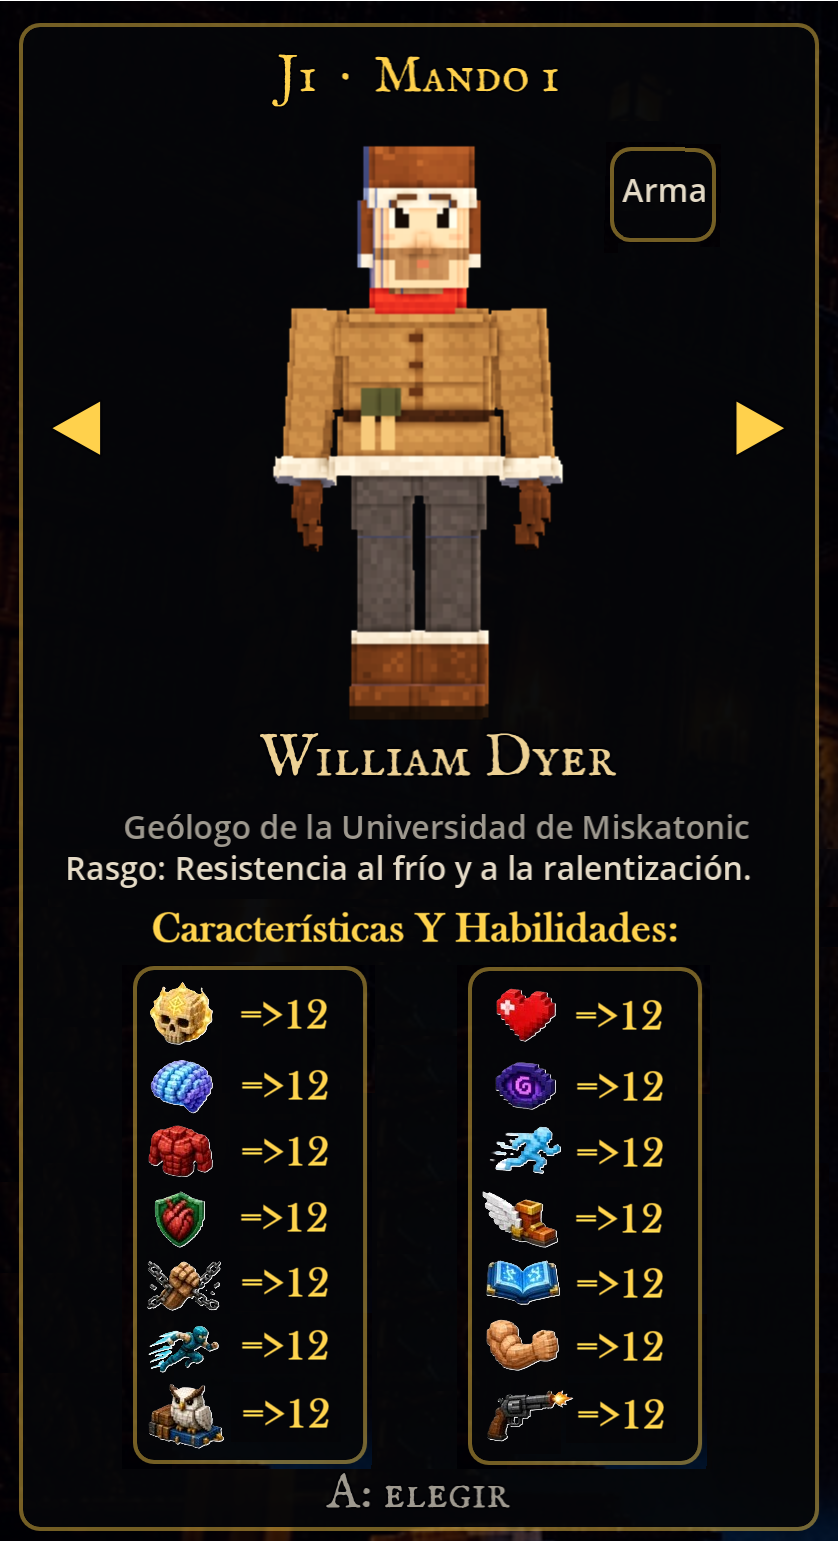
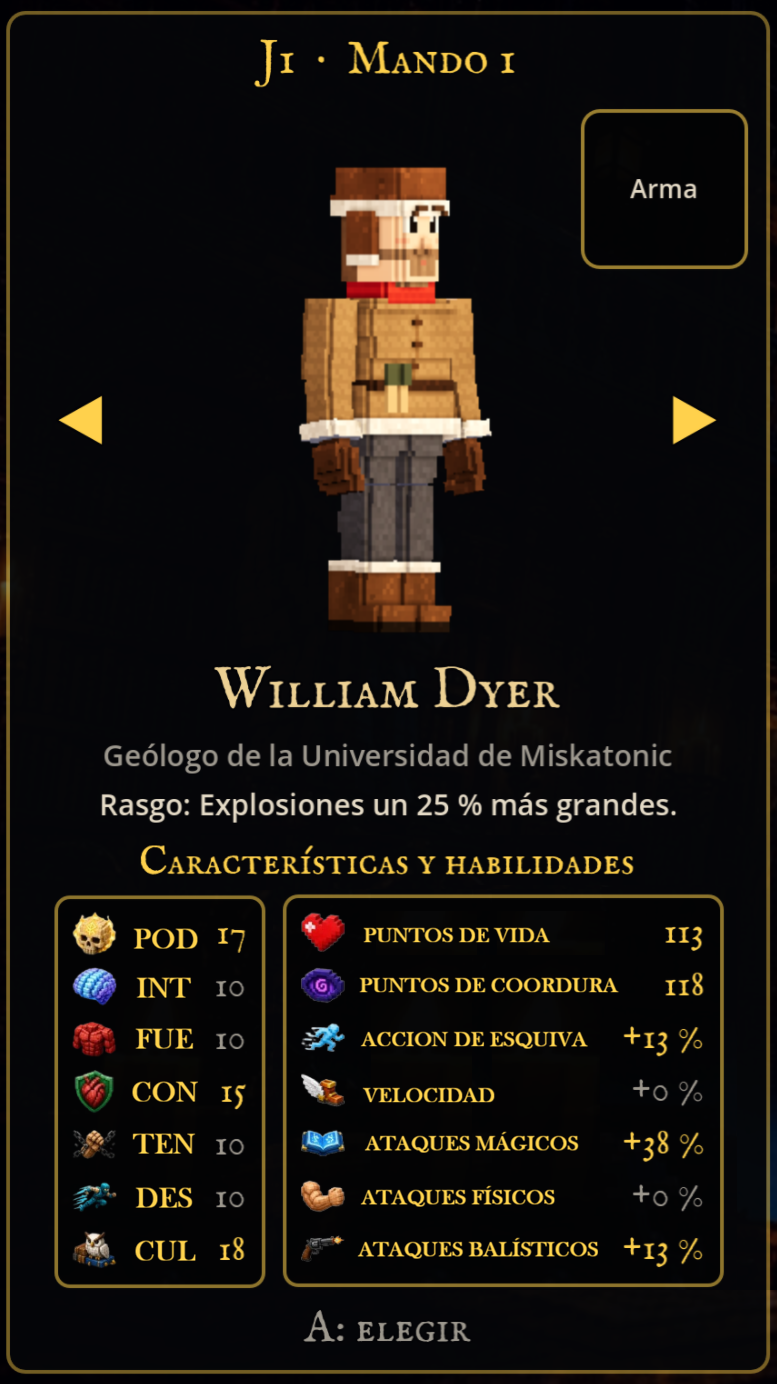
Ficha de selección nueva, personaje al doble y Cultura en vez de Educación
- Selección: el personaje se ve al doble de la escala de la partida (MODEL_ZOOM).
- Ficha rehecha según el diseño del autor (marco de 420×750): atributos con su
  abreviatura, estadísticas con su nombre e iconos un 25 % menores.
- Cada texto va en una casilla fija: las tablas ya no se mueven al cambiar de
  personaje. El rasgo tiene sitio para dos líneas.
- Educación (EDU) pasa a Cultura (CUL), con descripciones para los siete atributos.
- Las descripciones emergentes suben si no caben por abajo.

diff --git a/CLAUDE.md b/CLAUDE.md
@@ -54,9 +54,9 @@ Léela al empezar cada sesión:
   - **Partida de pruebas:** el hueco 3 tiene todo desbloqueado (`SaveData.unlock_all`: personajes, compañeros, niveles y lo que se añada) y 999.999 de dinero. Se rehace con `godot --path . -- test_save=3` (sustituye lo que haya en ese hueco).
   - **Plan ampliado (27-09-2026, D-27 a D-34):** atributos, 29 armas nuevas, 4 armas y 4 objetos por personaje, personajes de inicio 2+2, dólares y tienda de antigüedades con baúles arcanos, logros, clima estético y vestuario. Hitos 2.5 a 2.16 en `docs/ROADMAP.md`.
   - **Hito 2.5 (atributos): hecho.**
-    - Siete atributos (`Attributes`, `scripts/player/attributes.gd`): POD, INT, FUE, CON, TEN, DES y EDU, a 10 más un reparto de 20 puntos por personaje (`CharacterData.attr_bonus`, tabla en el GDD, 6.1).
+    - Siete atributos (`Attributes`, `scripts/player/attributes.gd`): POD, INT, FUE, CON, TEN, DES y CUL (cultura), a 10 más un reparto de 20 puntos por personaje (`CharacterData.attr_bonus`, tabla en el GDD, 6.1).
     - La vida, la cordura, el esquive, la velocidad y el daño por tipo de arma salen de sumas de dos atributos. `Player.rebuild_stats()` lo rehace todo desde la base (atributos, estilo de esquive, pasivas y depuración).
-    - Al subir de nivel, +1 en un atributo con la probabilidad del nivel 1; se anuncia en el menú de mejoras ("Nivel 3 · +1 Educación").
+    - Al subir de nivel, +1 en un atributo con la probabilidad del nivel 1; se anuncia en el menú de mejoras ("Nivel 3 · +1 Cultura").
     - Un arma al empezar; como mucho 4 armas y 4 objetos distintos (`PlayerProgress.weapon_slots` e `item_slots`).
     - De inicio: Dyer, Olmstead, Peaslee y Whipple. Legrasse y Johansen pasan a la tienda.
     - La selección de personaje muestra las estadísticas derivadas y los atributos.
@@ -75,7 +75,7 @@ Léela al empezar cada sesión:
     - Ya en el juego: codos y rodillas en los 11, bufanda de Dyer y coleta de Peaslee; manos en pinza en los 5 que faltan por pasar; los personajes no se hunden en el suelo al esquivar (`Player._keep_above_ground`).
     - El autor tenía más cambios que quería hacer antes del hito 2.7: preguntárselos.
   - **Un rasgo por personaje (D-35, 29-09-2026): hecho.** Dyer, explosiones +25 % de radio (`explosion_radius_mult`); Olmstead, esquive largo; Peaslee, suerte; Whipple, reanima antes (llega con la reanimación); Elwood, −15 % de daño físico; Johansen, +25 % cuerpo a cuerpo (`melee_mult`); Iwanicki, aura de cordura a sí mismo y a los cercanos (`calm_aura`, radio `Player.CALM_RADIUS`). Un test comprueba que nadie tenga más de uno.
-  - **Selección de personaje rehecha como ficha, pendiente de tu revisión** (`shots/seleccion_ficha2_001.5s.png`): modelo a la escala de la partida (72 px/m), arma arriba a la derecha, rol y rasgo, y dos columnas con iconos: los siete atributos y vida, cordura, recarga del esquive, velocidad y daño mágico, físico y de fuego. Vida y cordura en valor absoluto; esquive, velocidad y daños como potenciador (+20 %). El recuadro del arma enseña `WeaponData.icon` (hueco "Arma" mientras no haya imagen; nombre y `description` en la descripción emergente). Descripciones emergentes con `TipIcon` (`scripts/ui/tip_icon.gd`): aparecen a los 0,45 s con el ratón encima, con el foco o marcadas con arriba/abajo en la selección (`cursor=N` para capturas); úsalo en todo icono de armas, objetos, atributos y estadísticas. Iconos recortados de tus dos láminas en `resources/PantallasMenus/iconos/ficha_*.png` (con prefijo: `CON` es un nombre reservado en Windows y Godot no lo abre).
+  - **Selección de personaje rehecha como ficha, pendiente de tu revisión** (`shots/seleccion_ficha2_001.5s.png`): modelo al doble de la escala de la partida (144 px/m, `MODEL_ZOOM`), arma arriba a la derecha, rol y rasgo, y dos columnas con iconos (diseño del autor, `resources/PantallasMenus/seleccion_jugador_info_personaje.png`, marco de 420×750): los siete atributos con su abreviatura y puntos de vida, de cordura, acción de esquiva, velocidad y ataques mágicos, físicos y balísticos con su nombre. Cada texto va en una casilla fija (`_slot`): el nombre y la descripción reducen la letra para caber en una línea (`_fit_line`) y el rasgo tiene sitio para dos, así que las tablas no se mueven al cambiar de personaje. Vida y cordura en valor absoluto; esquive, velocidad y daños como potenciador (+20 %). El recuadro del arma enseña `WeaponData.icon` (hueco "Arma" mientras no haya imagen; nombre y `description` en la descripción emergente). Descripciones emergentes con `TipIcon` (`scripts/ui/tip_icon.gd`): aparecen a los 0,45 s con el ratón encima, con el foco o marcadas con arriba/abajo en la selección (`cursor=N` para capturas); úsalo en todo icono de armas, objetos, atributos y estadísticas. Iconos recortados de tus dos láminas en `resources/PantallasMenus/iconos/ficha_*.png` (con prefijo: `CON` es un nombre reservado en Windows y Godot no lo abre).
   - Después: hito 2.7, arsenal II (arcanas y tecnología de los Mitos).
 - **Fase 0: hecha.** GDD, hoja de ruta y las nueve decisiones que bloqueaban las fases 1 y 2.
 - **Fase 1: hecha** (queda tu partida de 5 minutos como comprobación). Subhitos en `docs/ROADMAP.md`.

diff --git a/docs/GDD.md b/docs/GDD.md
@@ -287,15 +287,15 @@ Todos empiezan con los siete atributos a 10 y reparten 20 puntos entre tres. La 
 
 | Personaje | Reparto | De inicio |
 |---|---|---|
-| William Dyer | EDU +8 · POD +7 · CON +5 | Sí |
+| William Dyer | CUL +8 · POD +7 · CON +5 | Sí |
 | Robert Olmstead | DES +8 · CON +6 · INT +6 | Sí |
-| Amelia Peaslee | DES +8 · EDU +7 · INT +5 | Sí |
-| Dra. Marian Whipple | EDU +9 · INT +7 · CON +4 | Sí |
+| Amelia Peaslee | DES +8 · CUL +7 · INT +5 | Sí |
+| Dra. Marian Whipple | CUL +9 · INT +7 · CON +4 | Sí |
 | John R. Legrasse | INT +7 · CON +7 · TEN +6 | Tienda |
 | Gustaf Johansen | FUE +8 · CON +8 · TEN +4 | Tienda |
-| Madame Ludmila Varga | POD +12 · INT +4 · EDU +4 | Tienda |
-| Henrietta Blake | INT +8 · POD +7 · EDU +5 | Tienda |
-| Padre Iwanicki | POD +10 · EDU +6 · TEN +4 | Tienda |
+| Madame Ludmila Varga | POD +12 · INT +4 · CUL +4 | Tienda |
+| Henrietta Blake | INT +8 · POD +7 · CUL +5 | Tienda |
+| Padre Iwanicki | POD +10 · CUL +6 · TEN +4 | Tienda |
 | Sargento Frank Elwood | CON +8 · TEN +7 · FUE +5 | Tienda |
 | Vera Malone | DES +9 · TEN +6 · FUE +5 | Tienda |
 
@@ -479,7 +479,7 @@ D-01 a D-13 proceden de la especificación. D-14 a D-19 salen de las incoherenci
 - **D-26 — Siete personajes más (27-09-2026).** *Resuelta:* además de Dyer, Olmstead, Legrasse y Johansen, la fase 2 trae siete personajes que se compran en la tienda (mientras no exista, se pueden elegir para probarlos). Cada uno se ata a un relato de Lovecraft: es personaje suyo o pariente o allegado inventado de uno. Se hacen en dos tandas (hito 2.4b), con revisión tras cada una:
   - *Primera tanda:* Amelia Peaslee (arqueóloga, rifle de caza), Madame Ludmila Varga (espiritista, páginas del Necronomicón), Dra. Marian Whipple (doctora, bisturís) y Henrietta Blake (escritora, Trapezoedro Resplandeciente).
   - *Segunda tanda:* padre Iwanicki (sacerdote, fórmula de expulsión), sargento Frank Elwood (ex-soldado, Colt .45) y Vera Malone (delincuente de la mafia, subfusil Thompson).
-- **D-27 — Atributos (27-09-2026).** *Resuelta:* siete atributos, todos a 10 en el nivel 1: **POD** (poder: voluntad, resistencia mental, afinidad mágica), **INT** (inteligencia), **FUE** (fuerza), **CON** (constitución), **TEN** (tenacidad: negarse a caer, que se traduce en golpes letales), **DES** (destreza) y **EDU** (educación). Cada personaje reparte además **20 puntos entre tres atributos** según su historia (reparto en la sección 6). Las estadísticas salen de la suma de dos atributos: vida = CON+TEN; cordura = POD+INT; esquive = DES+CON; velocidad = DES+TEN; ataques físicos = FUE+TEN; ataques mágicos = POD+EDU; armas de fuego = CON+INT. Al subir de nivel, además de elegir 1 de 3 mejoras de armas u objetos, el personaje gana **+1 en un atributo**, elegido al azar con una probabilidad proporcional a sus atributos del nivel 1 (con INT 20 y DES 10, el doble de probabilidad para INT). Esa proporción no cambia nunca. Se descartó un octavo atributo.
+- **D-27 — Atributos (27-09-2026).** *Resuelta:* siete atributos, todos a 10 en el nivel 1: **POD** (poder: voluntad, resistencia mental, afinidad mágica), **INT** (inteligencia), **FUE** (fuerza), **CON** (constitución), **TEN** (tenacidad: negarse a caer, que se traduce en golpes letales), **DES** (destreza) y **CUL** (cultura: estudios, lecturas, viajes y saber de leyendas; antes EDU, educación). Cada personaje reparte además **20 puntos entre tres atributos** según su historia (reparto en la sección 6). Las estadísticas salen de la suma de dos atributos: vida = CON+TEN; cordura = POD+INT; esquive = DES+CON; velocidad = DES+TEN; ataques físicos = FUE+TEN; ataques mágicos = POD+CUL; armas de fuego = CON+INT. Al subir de nivel, además de elegir 1 de 3 mejoras de armas u objetos, el personaje gana **+1 en un atributo**, elegido al azar con una probabilidad proporcional a sus atributos del nivel 1 (con INT 20 y DES 10, el doble de probabilidad para INT). Esa proporción no cambia nunca. Se descartó un octavo atributo.
 - **D-28 — Armas y objetos por personaje (27-09-2026).** *Resuelta:* cada personaje **empieza con un solo arma**. Puede llevar **4 armas y 4 objetos** (los objetos son las mejoras pasivas); un artículo de la tienda amplía cada uno a **5**.
 - **D-29 — Arsenal ampliado (27-09-2026).** *Resuelta:* 29 armas nuevas propuestas por el autor. Donde se solapaban con las existentes:
   - El **Subfusil Thompson M1928** sustituye al Thompson actual.

diff --git a/README.md b/README.md
@@ -84,7 +84,7 @@ Un grupo de investigadores sacados de los relatos de Lovecraft atraviesa los esc
 
 Todos proceden de los relatos de Lovecraft, o son parientes o allegados inventados de sus personajes. Se modelan a **bloques limpios**, con los detalles pintados sobre superficies planas. Se empieza con cuatro (Dyer, Olmstead, Peaslee y Whipple); el resto se consigue en la tienda o jugando.
 
-Cada personaje tiene **siete atributos** (Poder, Inteligencia, Fuerza, Constitución, Tenacidad, Destreza y Educación), todos a 10 más un reparto de 20 puntos según su historia. De ellos salen la vida, la cordura, el esquive, la velocidad y el daño de cada tipo de arma, y al subir de nivel ganan un punto más.
+Cada personaje tiene **siete atributos** (Poder, Inteligencia, Fuerza, Constitución, Tenacidad, Destreza y Cultura), todos a 10 más un reparto de 20 puntos según su historia. De ellos salen la vida, la cordura, el esquive, la velocidad y el daño de cada tipo de arma, y al subir de nivel ganan un punto más.
 
 ![Dyer, Olmstead, Legrasse y Johansen](docs/img/personajes_1.jpg)
 
